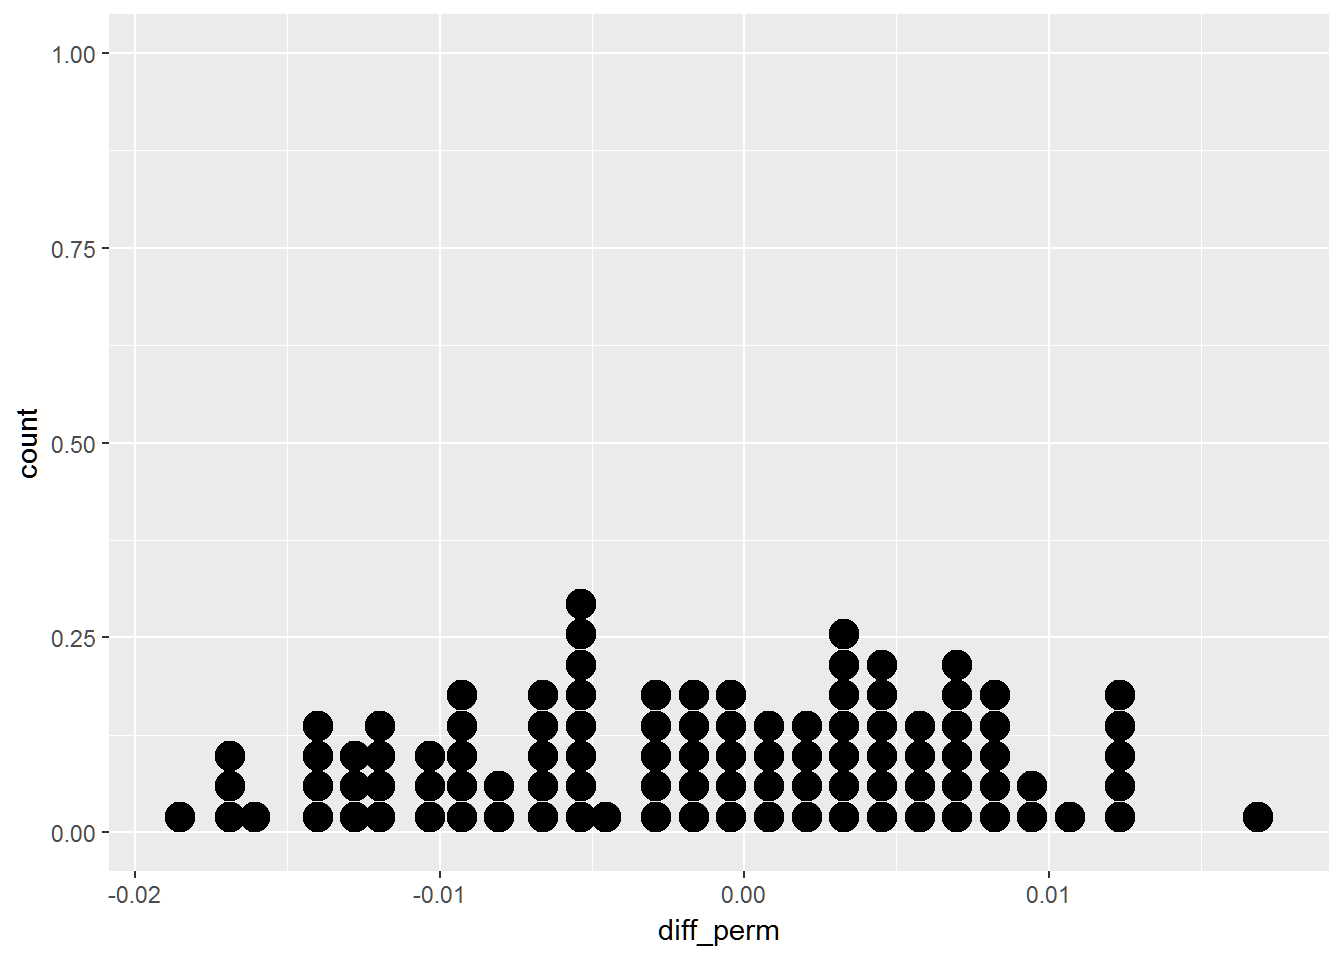
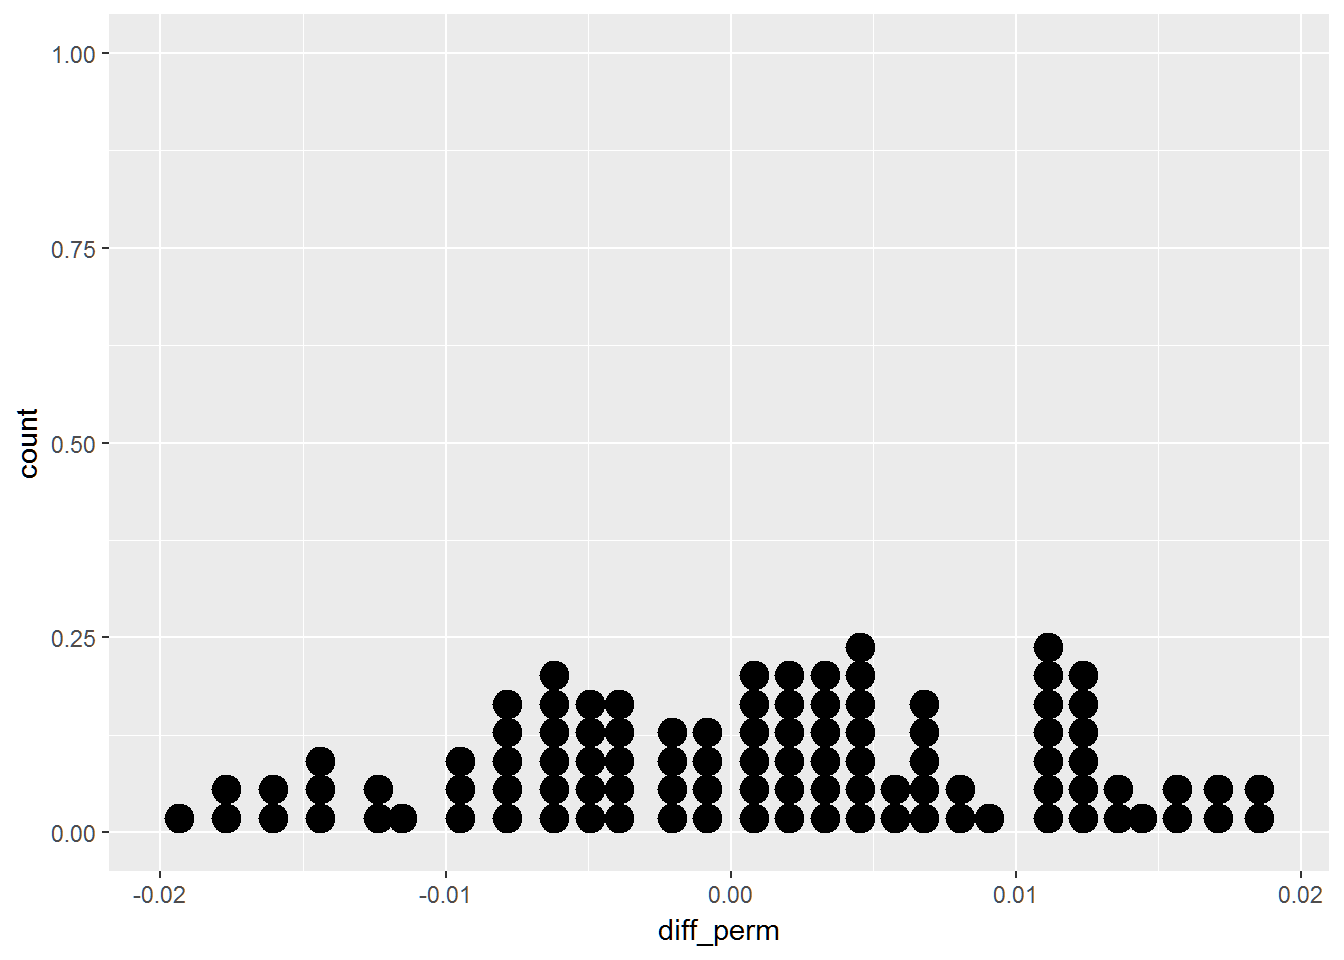
Improved bootstrap explanation

diff --git a/docs/foundations-of-inference.html b/docs/foundations-of-inference.html
@@ -224,9 +224,9 @@ homes %&gt;%
 <span class="st">  </span><span class="kw">summarize</span>(<span class="dt">diff_perm =</span> <span class="kw">diff</span>(prop_own),
             <span class="dt">diff_orig =</span> <span class="kw">diff</span>(prop_own_perm))</code></pre></div>
 <pre><code>## # A tibble: 1 × 2
-##      diff_perm    diff_orig
-##          &lt;dbl&gt;        &lt;dbl&gt;
-## 1 -0.007828723 -0.007004959</code></pre>
+##      diff_perm  diff_orig
+##          &lt;dbl&gt;      &lt;dbl&gt;
+## 1 -0.007828723 0.01152972</code></pre>
 <p>It is easier to see what is going on by breaking the results down iteratively. Our selected and filtered homes dataset looks like.</p>
 <div class="sourceCode"><pre class="sourceCode r"><code class="sourceCode r"><span class="kw">head</span>(homes)</code></pre></div>
 <pre><code>## # A tibble: 6 × 2
@@ -267,17 +267,17 @@ homes3</code></pre></div>
 <pre><code>## # A tibble: 2 × 3
 ##   Gender prop_own_perm  prop_own
 ##   &lt;fctr&gt;         &lt;dbl&gt;     &lt;dbl&gt;
-## 1 female     0.6519427 0.6654397
-## 2   male     0.6712982 0.6576109</code></pre>
+## 1 female     0.6613497 0.6654397
+## 2   male     0.6617586 0.6576109</code></pre>
 <p>FFinally we calculate the differences in ownership - note that the difference for the permuted value here may be different from the full code above, as it a new random permutation and we have used the set.seed() function which would create an identical permutation.</p>
 <div class="sourceCode"><pre class="sourceCode r"><code class="sourceCode r">homes4 &lt;-<span class="st"> </span>homes3 %&gt;%<span class="st"> </span>
 <span class="st">  </span><span class="kw">summarize</span>(<span class="dt">diff_perm =</span> <span class="kw">diff</span>(prop_own),
   <span class="dt">diff_orig =</span> <span class="kw">diff</span>(prop_own_perm))
 homes4</code></pre></div>
 <pre><code>## # A tibble: 1 × 2
-##      diff_perm  diff_orig
-##          &lt;dbl&gt;      &lt;dbl&gt;
-## 1 -0.007828723 0.01935548</code></pre>
+##      diff_perm    diff_orig
+##          &lt;dbl&gt;        &lt;dbl&gt;
+## 1 -0.007828723 0.0004089131</code></pre>
 </div>
 <div id="density-plots" class="section level2">
 <h2><span class="header-section-number">1.3</span> Density Plots</h2>
@@ -467,8 +467,14 @@ opportunity %&gt;%
 </div>
 <div id="bootstrapping" class="section level2">
 <h2><span class="header-section-number">1.7</span> Bootstrapping</h2>
-<p>When calculating confidence intervals there is no null hypothesis like in hypothesis testing. We need to understand how samples from samples from our population vary around the parameter of interest. Bootstrapping is a process for calculating the distance from our statistic to our parameter.</p>
-<p>Bootstrapping is the process of taking repeated samples from the same sample, to estimate the variability, the bootstrap statistic is <span class="math inline">\(\hat{p}*\)</span> and is the proportion of successes in each resample.</p>
+<p>Sometimes we are not neccessarily interested in testing a hypothesis, we are instead interested in making a claim about how our sample can be inferred to a large population. To do so we use confidece intervals. When calculating confidence intervals there is no null hypothesis like in hypothesis testing. We need to understand how samples from our population vary around the parameter of interest. In an ideal world we would take many samples from the population or know what the true value is in the population, but realistically this is not possible, so we use booststrapping.</p>
+<p>Bootstrapping is the process of taking repeated samples from the same sample, to estimate the variability. As our population parameters are not known, we can use our sample to estimate a simulated population parameter (<span class="math inline">\(\hat{p}*\)</span>) by repeated sampling. We can then estimate other parameters such as the standard deviation, s.e. and the confidence interval. Instead of taking repeated samples from our population, we take repeated samples from our data, with replacement, each bootstrap sample is the same size as the original sample.</p>
+<div class="figure"><span id="fig:bootstrap"></span>
+<img src="images/bootstrap.png" alt="Illustration of the bootstrap approach on a small sample containing n = 3 observations [@ISLR2013, pg 190]"  />
+<p class="caption">
+Figure 1.1: Illustration of the bootstrap approach on a small sample containing n = 3 observations <span class="citation">(James et al. <a href="#ref-ISLR2013">2013</a>, pg 190)</span>
+</p>
+</div>
 <div class="sourceCode"><pre class="sourceCode r"><code class="sourceCode r"><span class="co"># Setup our single poll example</span>
 one_poll &lt;-<span class="st"> </span><span class="kw">sample</span>(<span class="kw">rep</span>(<span class="kw">c</span>(<span class="dv">0</span>, <span class="dv">1</span>), <span class="dt">times =</span> <span class="kw">c</span>(<span class="dv">9</span>,<span class="dv">21</span>)))</code></pre></div>
 </div>
@@ -483,6 +489,9 @@ one_poll &lt;-<span class="st"> </span><span class="kw">sample</span>(<span clas
 </div>
 <div id="ref-Frederick2009">
 <p>Frederick, S., N. Novemsky, J. Wang, R. Dhar, and S. Nowlis. 2009. “Opportunity Cost Neglect.” <em>Journal of Consumer Research</em> 36 (4): 553–61.</p>
+</div>
+<div id="ref-ISLR2013">
+<p>James, G., D. Witten, T. Hastie, and R. Tibshirani. 2013. <em>An Introduction to Statistical Learning</em>. 6th Printing. London: Springer. <a href="http://www-bcf.usc.edu/~gareth/ISL/" class="uri">http://www-bcf.usc.edu/~gareth/ISL/</a>.</p>
 </div>
 </div>
             </section>

diff --git a/docs/index.html b/docs/index.html
@@ -137,12 +137,12 @@ code > span.in { color: #60a0b0; font-weight: bold; font-style: italic; } /* Inf
 <div id="header">
 <h1 class="title">Study notes</h1>
 <h4 class="author"><em>James Solomon-Rounce</em></h4>
-<h4 class="date"><em>Last updated:2017-04-27</em></h4>
+<h4 class="date"><em>Last updated:2017-04-28</em></h4>
 </div>
 <div id="preface" class="section level1 unnumbered">
 <h1>Preface</h1>
 <p>The following notes were taken by me for educational, non-commercial, purposes. If you find the information useful, buy the material/take the course.</p>
-<p>Thank you to the original content providers for helping us to ‘Stand on the Shoulders of Giants’. Additional ramblings are my own.</p>
+<p>Thank you to the original content providers. Additional ramblings are my own.</p>
 <p><img src="images/standing.jpg" width="100%" /></p>
 
 </div>

diff --git a/docs/references.html b/docs/references.html
@@ -145,6 +145,9 @@ code > span.in { color: #60a0b0; font-weight: bold; font-style: italic; } /* Inf
 <p>Huberty, Carl J. 1993. “Historical Origins of Statistical Testing Practices.” <em>The Journal of Experimental Education</em> 61 (4): 317–33.</p>
 </div>
 <div>
+<p>James, G., D. Witten, T. Hastie, and R. Tibshirani. 2013. <em>An Introduction to Statistical Learning</em>. 6th Printing. London: Springer. <a href="http://www-bcf.usc.edu/~gareth/ISL/" class="uri">http://www-bcf.usc.edu/~gareth/ISL/</a>.</p>
+</div>
+<div>
 <p>Rosen, B., and T. Jerdee. 1974. “Influence of Sex Role Stereotypes on Personnel Decisions.” <em>Journal of Applied Psychology</em> 59 (1): 9–14.</p>
 </div>
 </div>

diff --git a/docs/Foundations-of-Inference.md b/docs/Foundations-of-Inference.md
@@ -95,9 +95,9 @@ homes %>%
 
 ```
 ## # A tibble: 1 × 2
-##      diff_perm    diff_orig
-##          <dbl>        <dbl>
-## 1 -0.007828723 -0.007004959
+##      diff_perm  diff_orig
+##          <dbl>      <dbl>
+## 1 -0.007828723 0.01152972
 ```
 
 It is easier to see what is going on by breaking the results down iteratively.  Our selected and filtered homes dataset looks like. 
@@ -168,8 +168,8 @@ homes3
 ## # A tibble: 2 × 3
 ##   Gender prop_own_perm  prop_own
 ##   <fctr>         <dbl>     <dbl>
-## 1 female     0.6519427 0.6654397
-## 2   male     0.6712982 0.6576109
+## 1 female     0.6613497 0.6654397
+## 2   male     0.6617586 0.6576109
 ```
 
 FFinally we calculate the differences in ownership - note that the difference for the permuted value here may be different from the full code above, as it a new random permutation and we have used the set.seed() function which would create an identical permutation.
@@ -184,9 +184,9 @@ homes4
 
 ```
 ## # A tibble: 1 × 2
-##      diff_perm  diff_orig
-##          <dbl>      <dbl>
-## 1 -0.007828723 0.01935548
+##      diff_perm    diff_orig
+##          <dbl>        <dbl>
+## 1 -0.007828723 0.0004089131
 ```
 
 ##Density Plots
@@ -482,9 +482,17 @@ Type II: There is a difference in proportions, but the observed difference is no
 
 ##Bootstrapping
 
-When calculating confidence intervals there is no null hypothesis like in hypothesis testing.  We need to understand how samples from samples from our population vary around the parameter of interest.  Bootstrapping is a process for calculating the distance from our statistic to our parameter.
+Sometimes we are not neccessarily interested in testing a hypothesis, we are instead interested in making a claim about how our sample can be inferred to a large population.  To do so we use confidece intervals.  When calculating confidence intervals there is no null hypothesis like in hypothesis testing.  We need to understand how samples from our population vary around the parameter of interest.  In an ideal world we would take many samples from the population or know what the true value is in the population, but realistically this is not possible, so we use booststrapping.
 
-Bootstrapping is the process of taking repeated samples from the same sample, to estimate the variability, the bootstrap statistic is $\hat{p}*$ and is the proportion of successes in each resample. 
+Bootstrapping is the process of taking repeated samples from the same sample, to estimate the variability.  As our population parameters are not known, we can use our sample to estimate a simulated population parameter ($\hat{p}*$) by repeated sampling.  We can then estimate other parameters such as the standard deviation, s.e. and the confidence interval.  Instead of taking repeated samples from our population, we take repeated samples from our data, with replacement, each bootstrap sample is the same size as the original sample.
+
+
+
+<div class="figure">
+<img src="images/bootstrap.png" alt="Illustration of the bootstrap approach on a small sample containing n = 3 observations [@ISLR2013, pg 190]"  />
+<p class="caption">(\#fig:bootstrap)Illustration of the bootstrap approach on a small sample containing n = 3 observations [@ISLR2013, pg 190]</p>
+</div>
+
 
 
 ```r

diff --git a/docs/index.md b/docs/index.md
@@ -1,7 +1,7 @@
 --- 
 title: "Study notes"
 author: "James Solomon-Rounce"
-date: 'Last updated:2017-04-27'
+date: 'Last updated:2017-04-28'
 bibliography: book.bib
 description: Study notes taken from courses and self learning.
 documentclass: book
@@ -16,7 +16,7 @@ url: http\://github.com/James-SR/study-notes-master
 
 The following notes were taken by me for educational, non-commercial, purposes. If you find the information useful, buy the material/take the course.
 
-Thank you to the original content providers for helping us to 'Stand on the Shoulders of Giants'.  Additional ramblings are my own.  
+Thank you to the original content providers.  Additional ramblings are my own.  
 
 <img src="images/standing.jpg" width="100%" />
 
